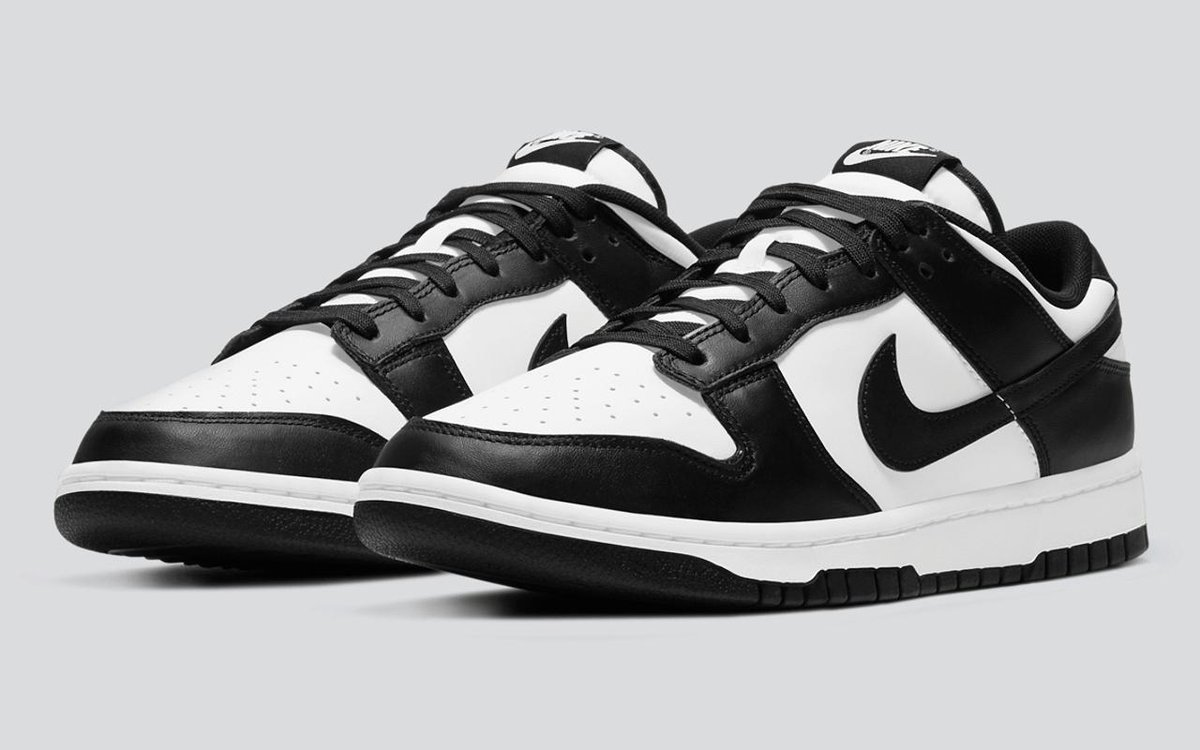
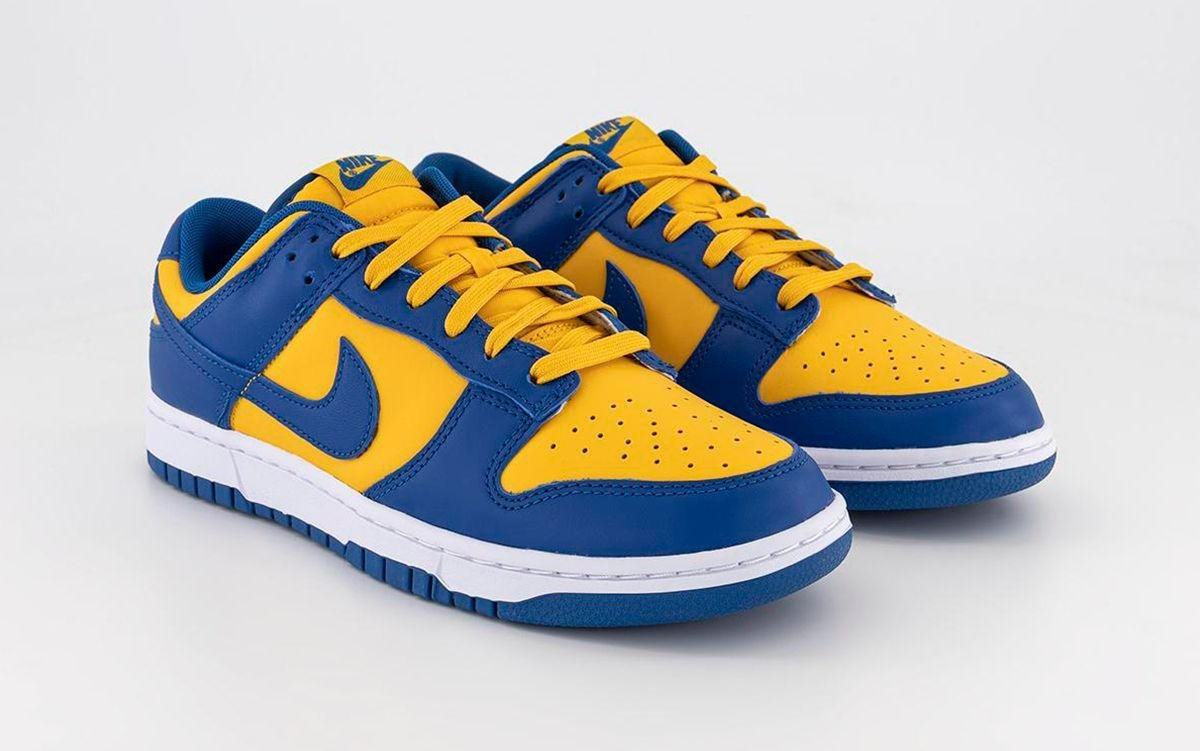
Étape 1 : nouvelles photos de baskets
- Édition limitée : Dunk Low vert d'eau sur fond bleu (meilleure définition)
- Toujours en stock : Dunk Low jaune et bleue sur fond gris

Claude-Session: https://claude.ai/code/session_01KhxS7uxyueBRMcWLHuLKA9

diff --git a/index.html b/index.html
@@ -798,7 +798,7 @@ var CONTENT = {
     question: 'COMBIEN COÛTENT CES 2 PAIRES DE BASKETS ?',
     tolerance: 10,
     limited: { badge: 'ÉDITION LIMITÉE', price: 250, src: 'images/basket-edition-limitee.jpg', aria: 'Prix de la paire en édition limitée', img: 'Nike Dunk Low vert d’eau et crème, semelle bleue, avec un bijou sur les lacets' },
-    stock: { badge: 'Toujours en stock', price: 120, src: 'images/basket-classique.jpg', aria: 'Prix de la paire toujours en stock', img: 'Nike Dunk Low noire et blanche' },
+    stock: { badge: 'Toujours en stock', price: 120, src: 'images/basket-classique.jpg', aria: 'Prix de la paire toujours en stock', img: 'Nike Dunk Low jaune et bleue' },
     validate: 'VALIDER MES PRIX', help: 'Bouge les deux curseurs pour valider',
     realMark: 'Vrai prix : {p} €',
     good: 'Bien vu ! Le vrai prix est de {p} €',
